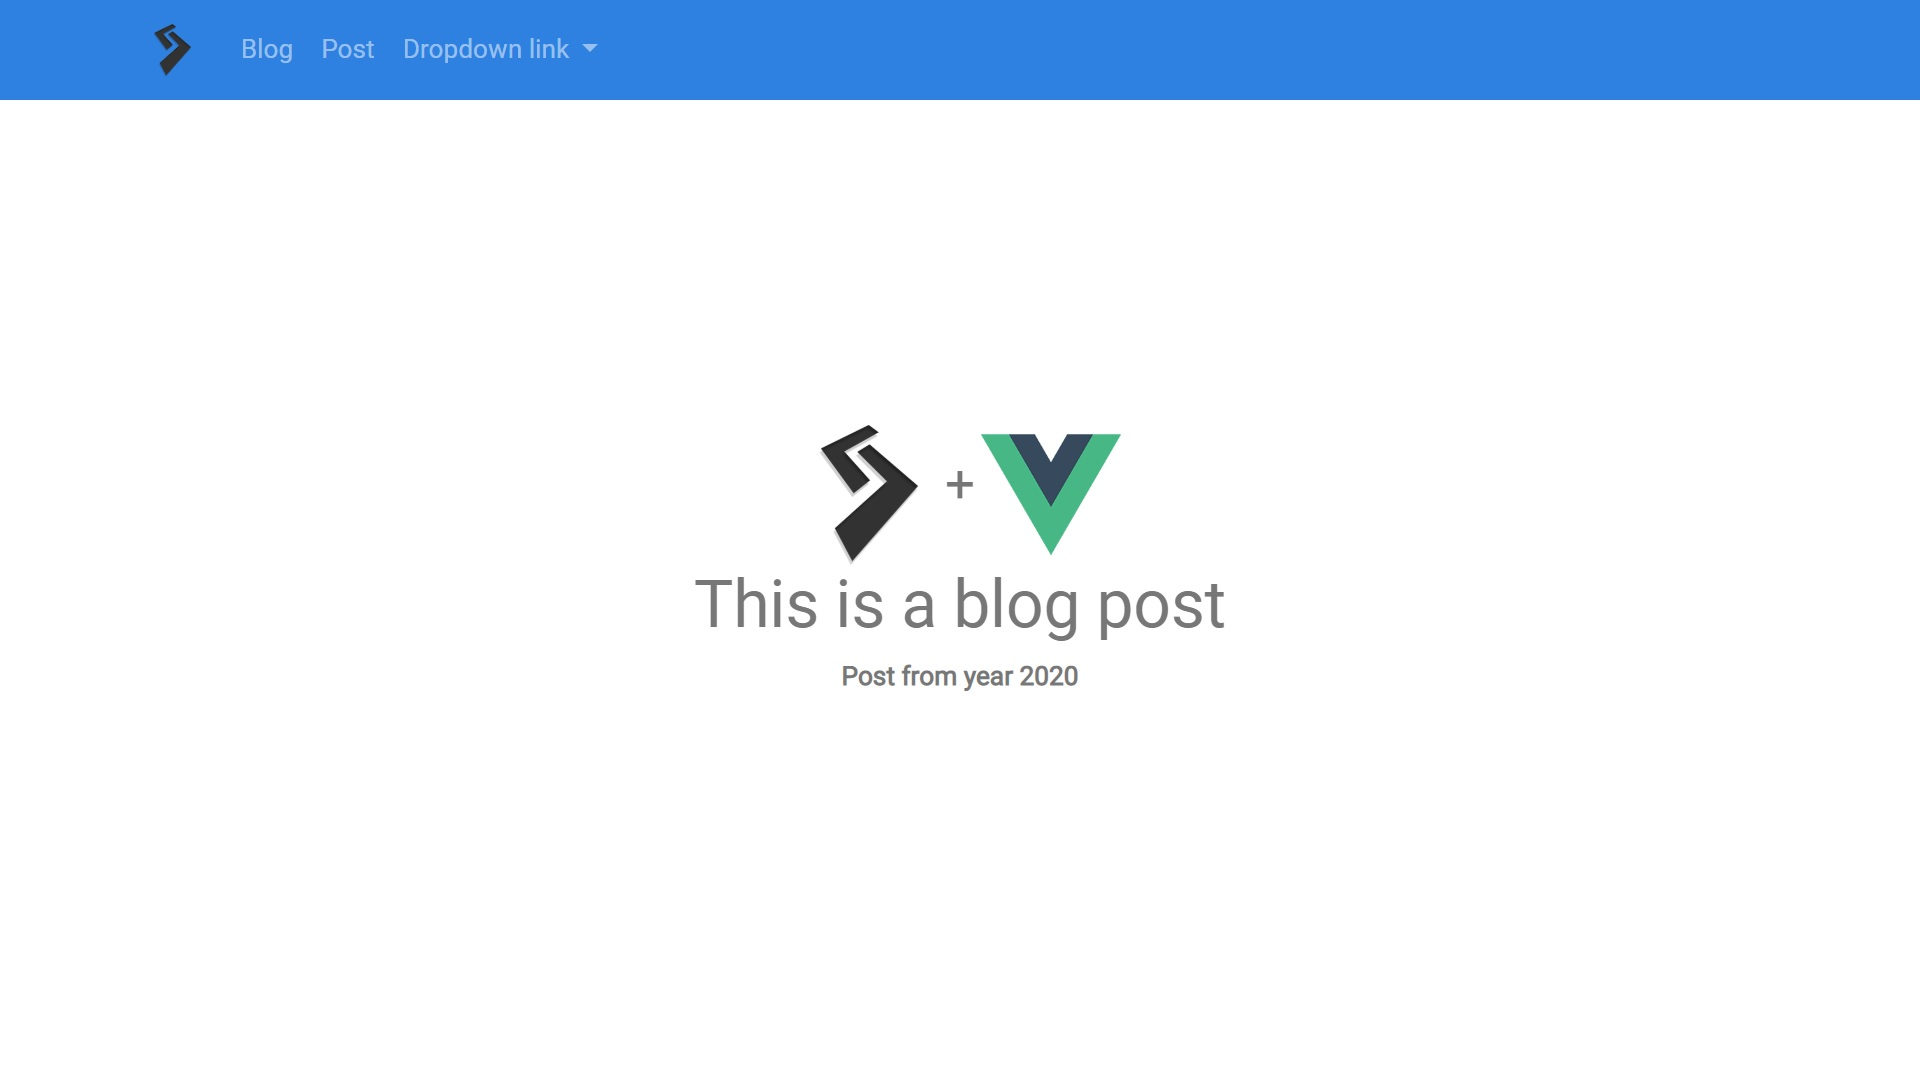
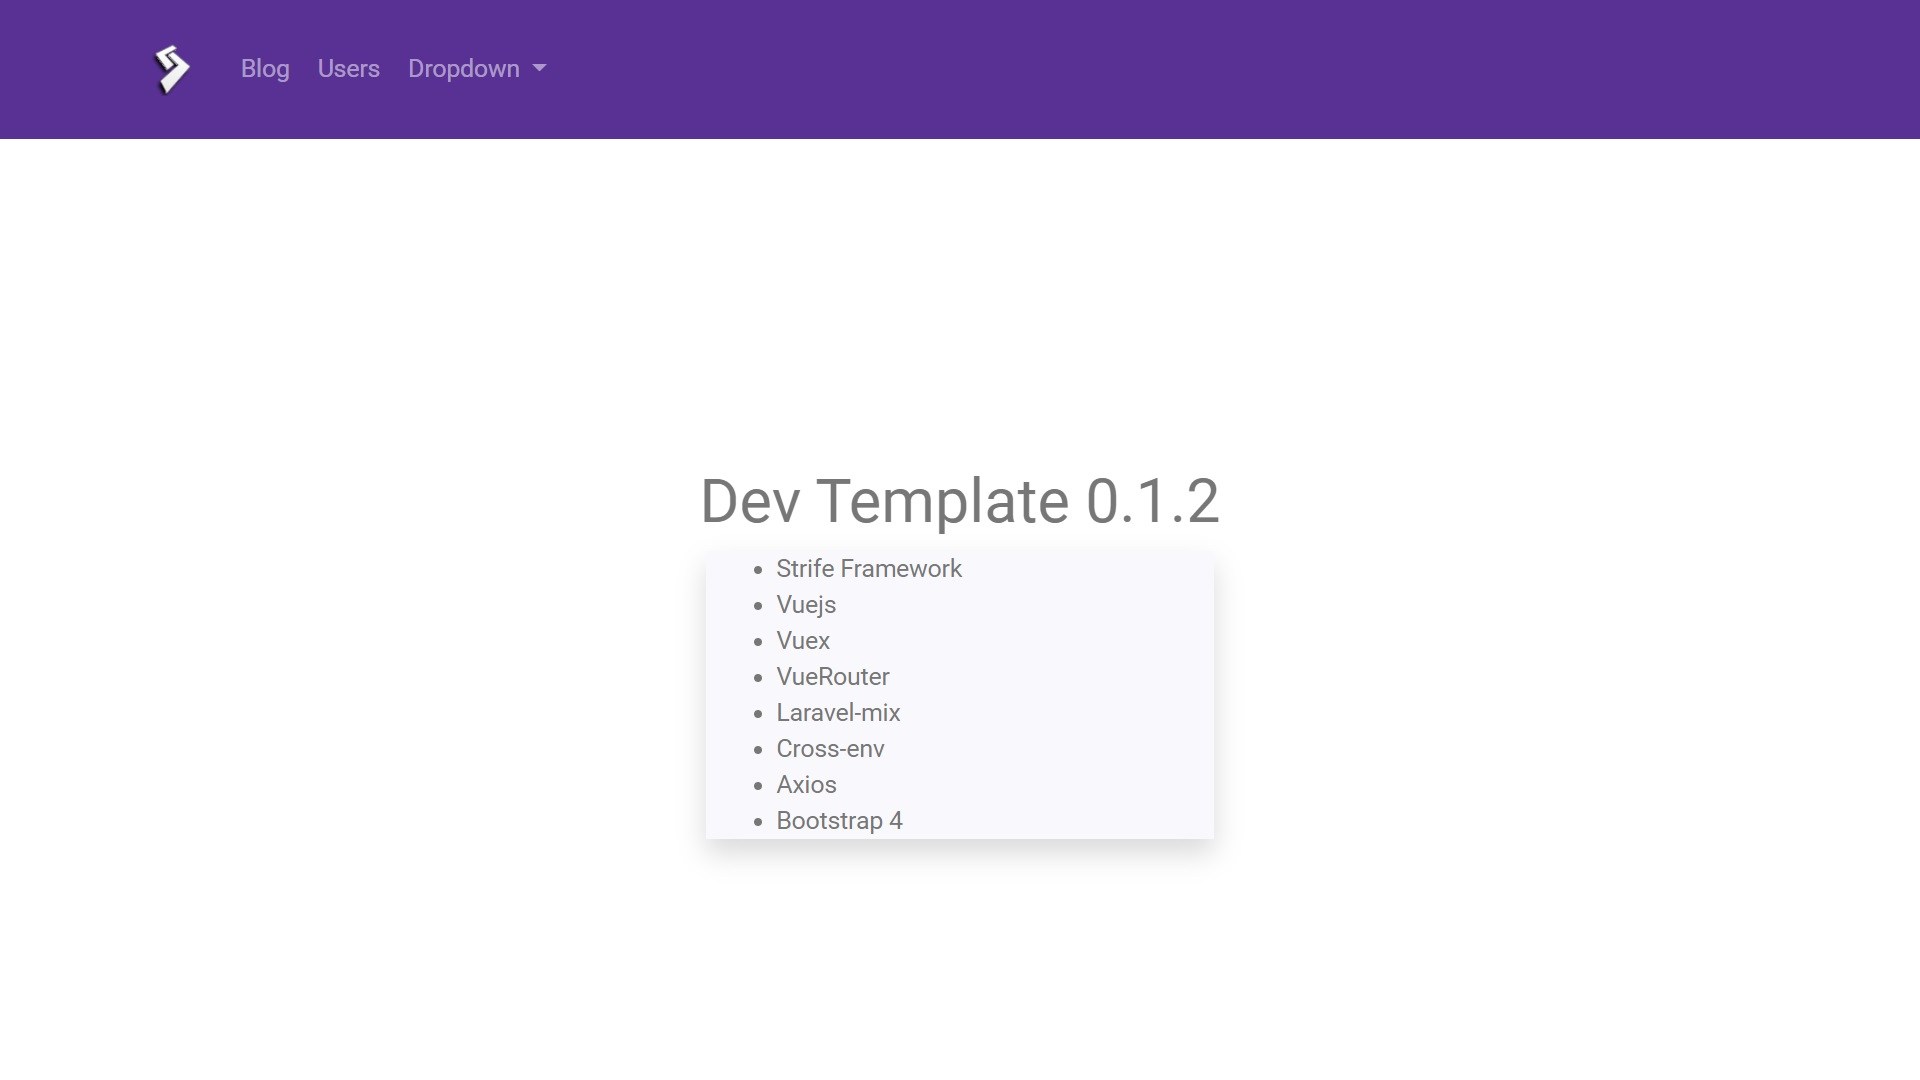
fixed styling

Changed region(s): [[0.0, 0.0, 1.0, 0.1528], [0.3438, 0.3972, 0.6562, 0.7944]]

diff --git a/assets/dist/js/Engine.js b/assets/dist/js/Engine.js
@@ -2621,6 +2621,22 @@ __webpack_require__.r(__webpack_exports__);
 //
 //
 //
+//
+//
+//
+//
+//
+//
+//
+//
+//
+//
+//
+//
+//
+//
+//
+//
 /* harmony default export */ __webpack_exports__["default"] = ({
   name: "App"
 });
@@ -4822,7 +4838,7 @@ var render = function() {
                       },
                       [
                         _vm._v(
-                          "\n                            Dropdown link\n                        "
+                          "\n                            Dropdown\n                        "
                         )
                       ]
                     ),
@@ -4952,7 +4968,33 @@ var staticRenderFns = [
     var _vm = this
     var _h = _vm.$createElement
     var _c = _vm._self._c || _h
-    return _c("div", [_c("h1", [_vm._v("This is homepage")])])
+    return _c("div", [
+      _c("h1", [_vm._v("Dev Template 0.1.2")]),
+      _vm._v(" "),
+      _c("div", { staticClass: "row" }, [
+        _c("div", { staticClass: "col-md-4 offset-md-4" }, [
+          _c("div", { staticClass: "panel bg-light shadow" }, [
+            _c("ul", { staticClass: "text-left" }, [
+              _c("li", [_vm._v("Strife Framework")]),
+              _vm._v(" "),
+              _c("li", [_vm._v("Vuejs")]),
+              _vm._v(" "),
+              _c("li", [_vm._v("Vuex")]),
+              _vm._v(" "),
+              _c("li", [_vm._v("VueRouter")]),
+              _vm._v(" "),
+              _c("li", [_vm._v("Laravel-mix")]),
+              _vm._v(" "),
+              _c("li", [_vm._v("Cross-env")]),
+              _vm._v(" "),
+              _c("li", [_vm._v("Axios")]),
+              _vm._v(" "),
+              _c("li", [_vm._v("Bootstrap 4")])
+            ])
+          ])
+        ])
+      ])
+    ])
   }
 ]
 render._withStripped = true

diff --git a/assets/js/views/Home.vue b/assets/js/views/Home.vue
@@ -1,6 +1,22 @@
 <template>
     <div>
-        <h1>This is homepage</h1>
+        <h1>Dev Template 0.1.2</h1>
+        <div class="row">
+            <div class="col-md-4 offset-md-4">
+                <div class="panel bg-light shadow">
+                    <ul class="text-left">
+                        <li>Strife Framework</li>
+                        <li>Vuejs</li>
+                        <li>Vuex</li>
+                        <li>VueRouter</li>
+                        <li>Laravel-mix</li>
+                        <li>Cross-env</li>
+                        <li>Axios</li>
+                        <li>Bootstrap 4</li>
+                    </ul>
+                </div>
+            </div>
+        </div>
     </div>
 </template>
 

diff --git a/assets/js/App.vue b/assets/js/App.vue
@@ -18,7 +18,7 @@
                         </li>
                         <li class="nav-item dropdown">
                             <span class="nav-link dropdown-toggle" @click="dropdown = !dropdown">
-                                Dropdown link
+                                Dropdown
                             </span>
                             <div class="dropdown-menu" :class="{'show':dropdown}">
                                 <a class="dropdown-item" href="#">Action</a>

diff --git a/readme.md b/readme.md
@@ -1,11 +1,12 @@
 ![Strife Framework](assets/img/preview.jpg)
 # Strife + Vue.js
 ### Package includes:   
-> **Laravel-mix**  
-> **Cross-env**  
-> **Axios**  
-> **VueRouter**  
-> **Bootstrap 4**  
-> **Strife Framework**
-  
 
+> **Strife Framework**
+> **Vuejs**
+> **Vuex**
+> **VueRouter**
+> **Laravel-mix**
+> **Cross-env**
+> **Axios**
+> **Bootstrap 4**
